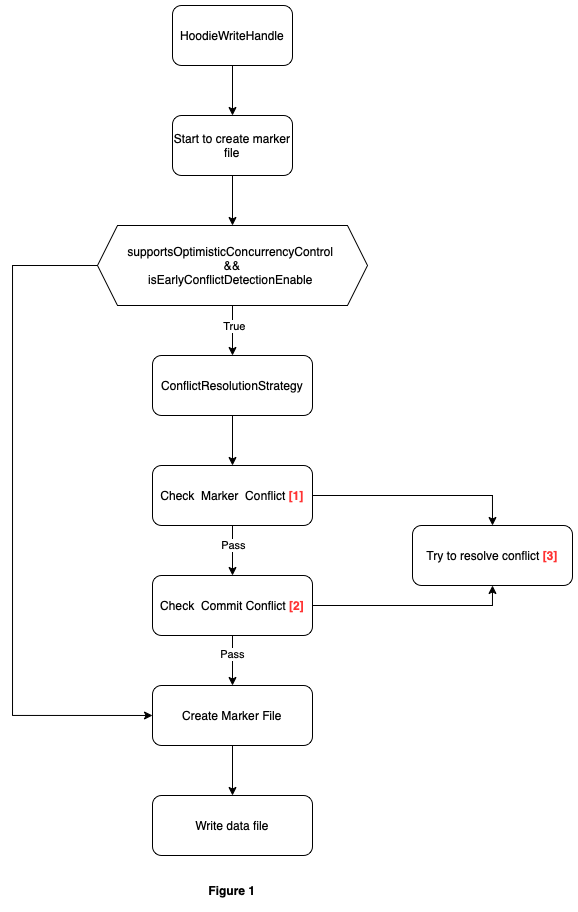
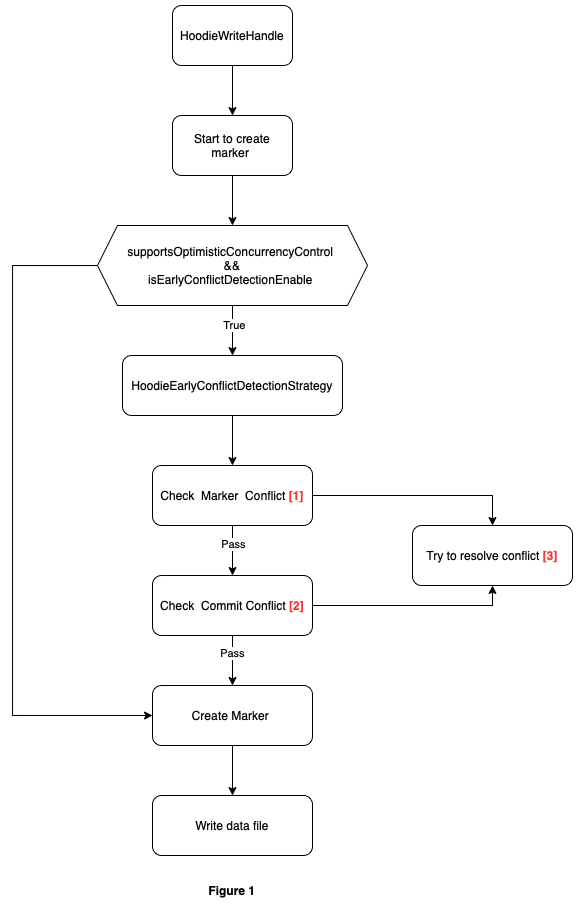
need more change

diff --git a/rfc/rfc-56/rfc-56.md b/rfc/rfc-56/rfc-56.md
@@ -146,6 +146,10 @@ both writers will pass conflict checking and successfully create a marker, which
 If so, the conflict can only be found in the pre-commit conflict checking and fail writing.
 This leads to waste of resources, but don't compromise the correctness of the data.
 
+
+As we can see, not only DirectMarkerWithTransactionConflictResolutionStrategy but also SimpleDirectMarkerConflictResolutionStrategy
+ have extra fs calling for ealy conflict detection.
+
 #### TimelineServerBasedWriteMarkers related strategy
 
 ##### AsyncTimelineMarkerConflictResolutionStrategy
@@ -154,7 +158,7 @@ This design expands the create marker api on timeline server.
 
 ![](figure3.png)
 
-As shown on figure3. For the client side, it will call create marker api, requesting to create marker.
+As shown on figure3. For the client side, it will call create marker api, requesting to create markers.
 
 For the timeline server side, there is a MarkerCheckerRunnable thread, which will check the conflicts between current 
 writer and other active writers at fixed rate. If any conflict was detected, this thread will async update the value 
@@ -190,7 +194,7 @@ Let's take Figure 4 as an example
 Writer1 starts writing data at time t1 and finishes at time t3. Writer2 starts writing at time t2, and will update a 
 file already updated by writer1 at time t4. Since all marker information of writer1 has been deleted at time t4, 
 such conflicts cannot be found in the stage of marker conflict detection until starting to commit. 
-In order to avoid such delay of early conflict detection, it is necessary to add the step of check commit conflict during
+In order to avoid such delay of early conflict detection, it is necessary to add the steps of checking commit conflict during
 detection.
 
 ```
